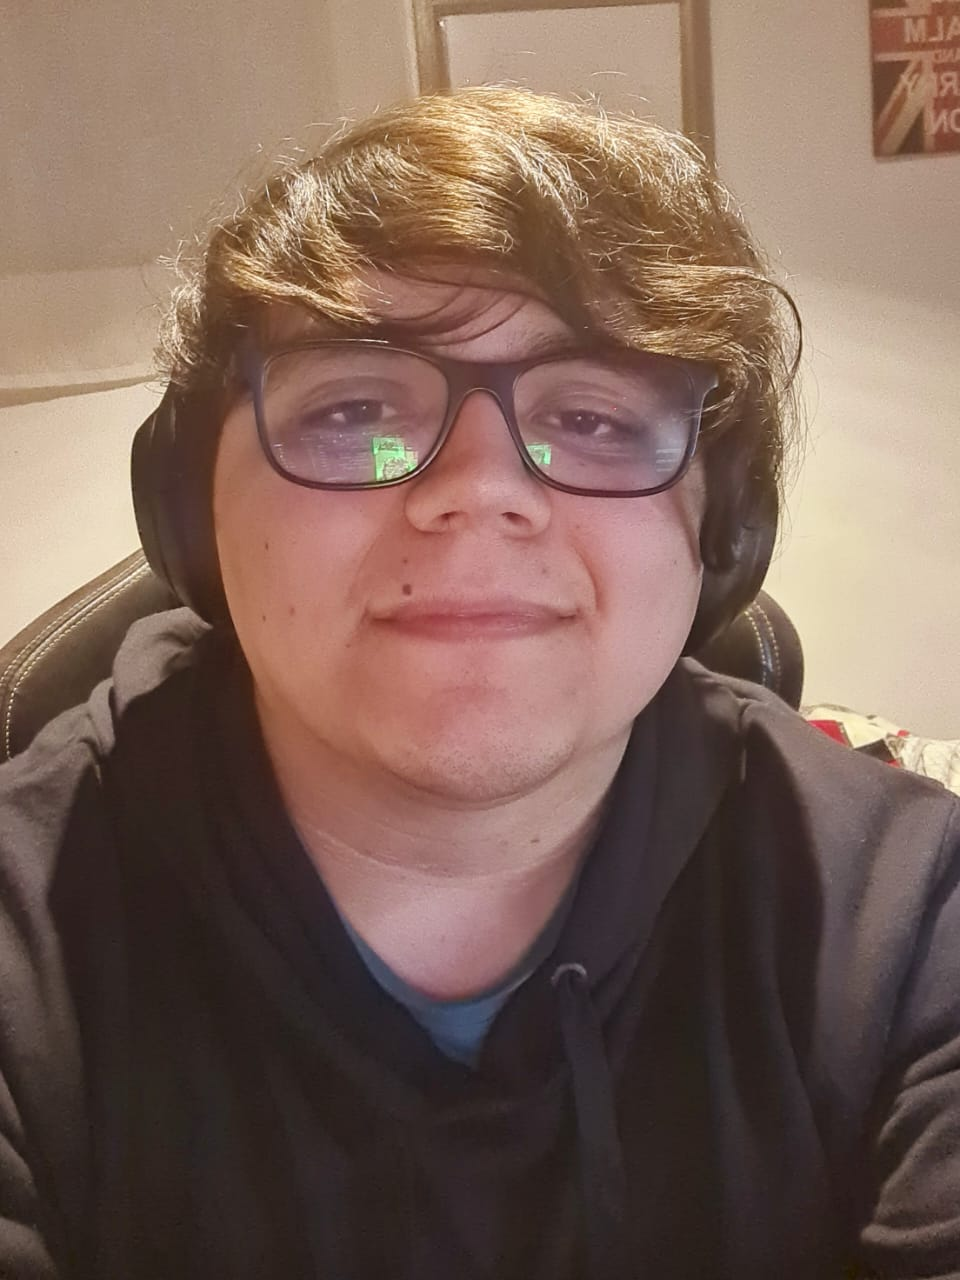
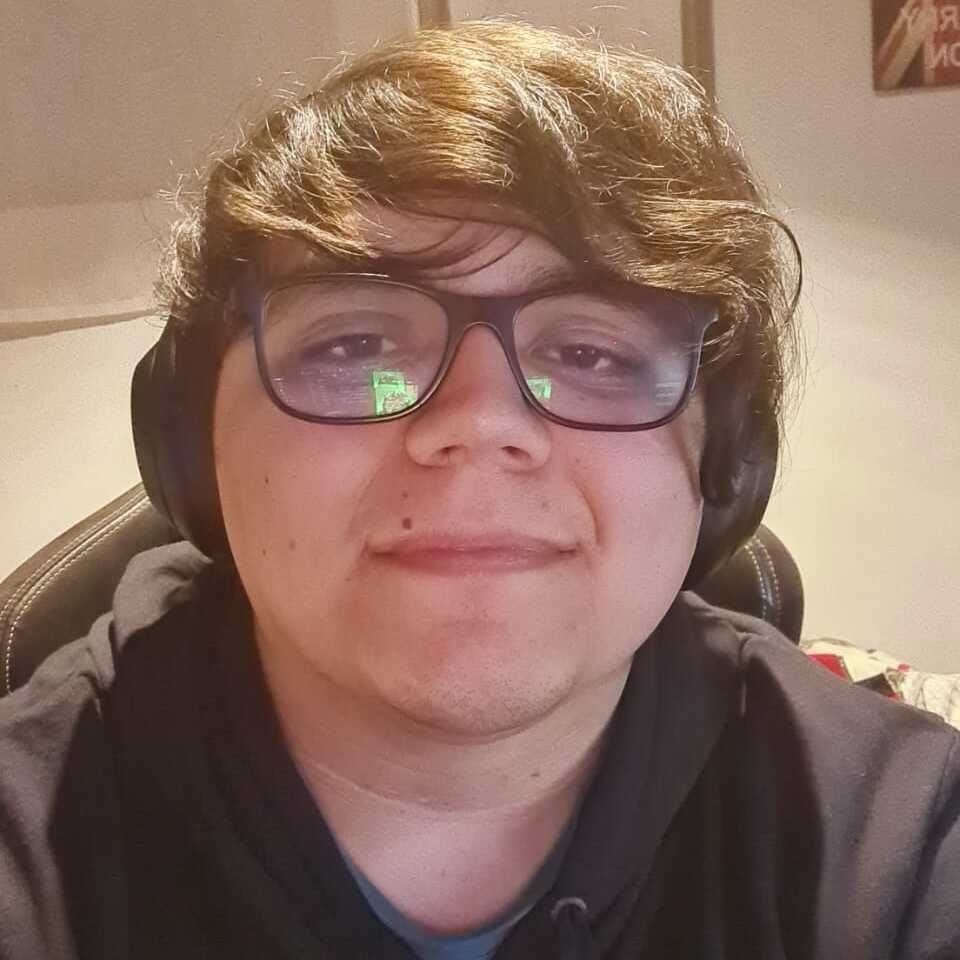
Fix detalles y limpieza de codigo

diff --git a/src/components/Proyectos.jsx b/src/components/Proyectos.jsx
@@ -1,44 +1,25 @@
 import React from 'react'
 import { HStack, Heading, WrapItem, Wrap } from '@chakra-ui/react'
-import portafolio from '../static/portafolio.png'
 import CardProyectos from './Cards/CardProyectos'
+import { proyectos } from '../static/proyectos'
 
 const Proyectos = () => {
+
+    const listadoProyectos = proyectos.map((proyecto, index) => {
+        return (
+            <WrapItem key={index}>
+                <CardProyectos imagen={proyecto.imagen} nombre={proyecto.titulo} descripcion={proyecto.descripcion} link={proyecto.url} tecnologias={proyecto.tecnologias} />
+            </WrapItem>
+        )
+    })
+
+
     return (
         <>
             <Heading as={"h2"} fontWeight={"bold"} color="white" textAlign={"center"} p={5} fontSize={"2xl"} id="Proyectos">Proyectos</Heading>
             <HStack w={'full'} h={"full"} mt={5} justify={"center"}>
                 <Wrap spacing={10} justify={"center"}>
-                    <WrapItem>
-                        <CardProyectos
-                            imagen={portafolio}
-                            descripcion={"Descripción del proyecto llamado portafolio y porque fue realizado asdasdasdasds dasdasdasda sdsdasdasda sdasdsdasdasdasdasdsd"}
-                            titulo={"Portafolio"}
-                            tecnologias={["React", "ChakraUI", "JavaScript", "Git", "GitHub", "Visual Studio Code"]}
-                            repositorio={"https://github.com/Xhyus/portfolio"}
-                            url={"https://www.ignaciogonzalez.dev"}
-                        />
-                    </WrapItem>
-                    <WrapItem>
-                        <CardProyectos
-                            imagen={portafolio}
-                            descripcion={"Descripción del proyecto llamado portafolio y porque fue realizado asdasdasdasds dasdasdasda sdsdasdasda sdasdsdasdasdasdasdsd"}
-                            titulo={"Portafolio"}
-                            tecnologias={["React", "ChakraUI", "JavaScript", "Git", "GitHub", "Visual Studio Code"]}
-                            repositorio={"https://github.com/Xhyus/portfolio"}
-                            url={"https://www.ignaciogonzalez.dev"}
-                        />
-                    </WrapItem>
-                    <WrapItem>
-                        <CardProyectos
-                            imagen={portafolio}
-                            descripcion={"Descripción del proyecto llamado portafolio y porque fue realizado asdasdasdasds dasdasdasda sdsdasdasda sdasdsdasdasdasdasdsd"}
-                            titulo={"Portafolio"}
-                            tecnologias={["React", "ChakraUI", "JavaScript", "Git", "GitHub", "Visual Studio Code"]}
-                            repositorio={"https://github.com/Xhyus/portfolio"}
-                            url={"https://www.ignaciogonzalez.dev"}
-                        />
-                    </WrapItem>
+                    {listadoProyectos}
                 </Wrap>
             </HStack>
         </>

diff --git a/src/components/Navbar.jsx b/src/components/Navbar.jsx
@@ -1,5 +1,5 @@
 import React from 'react'
-import { Box, Link, HStack, Flex, VStack, Stack, Drawer, DrawerOverlay, DrawerContent, Text, DrawerCloseButton, useMediaQuery, useDisclosure, DrawerHeader, DrawerBody } from "@chakra-ui/react"
+import { Box, Link, HStack, Flex, Stack, Drawer, DrawerOverlay, DrawerContent, Text, DrawerCloseButton, useMediaQuery, useDisclosure, DrawerHeader, DrawerBody } from "@chakra-ui/react"
 import { FaBars } from 'react-icons/fa'
 
 const Navbar = () => {
@@ -15,7 +15,7 @@ const Navbar = () => {
                         <Link color={"white"} px={1} fontWeight={"bold"} href={"#Sobre-mi"} >Sobre mí</Link>
                         <Link color={"white"} px={1} fontWeight={"bold"} href={"#Educacion"} >Educación</Link>
                         <Link color={"white"} px={1} fontWeight={"bold"} href={"#Experiencias"} >Experiencias</Link>
-                        <Link color={"white"} px={1} fontWeight={"bold"} href={"#Tecnologias"}  >Tecnologias</Link>
+                        <Link color={"white"} px={1} fontWeight={"bold"} href={"#Tecnologias"}  >Tecnologías</Link>
                         <Link color={"white"} px={1} fontWeight={"bold"} href={"#Proyectos"}  >Proyectos</Link>
                         <Link color={"white"} px={1} fontWeight={"bold"} href={"#Contacto"}  >Contacto</Link>
                     </HStack>
@@ -27,14 +27,13 @@ const Navbar = () => {
 
     const DrawerMobile = () => {
         const { isOpen, onOpen, onClose } = useDisclosure()
-        const btnRef = React.useRef()
         return (
             <>
                 <Box backgroundColor={"blackAlpha.900"} p={1}>
                     <Box m={5}>
-                        <FaBars color='white' size={30} ref={btnRef} onClick={onOpen} />
+                        <FaBars color='white' size={30} onClick={onOpen} />
                     </Box>
-                    <Drawer isOpen={isOpen} placement='right' onClose={onClose} finalFocusRef={btnRef}>
+                    <Drawer isOpen={isOpen} placement='right' onClose={onClose} >
                         <DrawerOverlay />
                         <DrawerContent backgroundColor={"blackAlpha.800"}>
                             <DrawerCloseButton color={"white"} />
@@ -48,7 +47,7 @@ const Navbar = () => {
                                     <Link color={"white"} px={1} fontWeight={"bold"} href={"#Experiencias"} >Experiencias</Link>
                                     <Link color={"white"} px={1} fontWeight={"bold"} href={"#Tecnologias"}  >Tecnologias</Link>
                                     <Link color={"white"} px={1} fontWeight={"bold"} href={"#Proyectos"}  >Proyectos</Link>
-                                    <Link color={"white"} px={1} fontWeight={"bold"} href={"#Contacto"}  >Contacto</Link>
+                                    {/* <Link color={"white"} px={1} fontWeight={"bold"} href={"#Contacto"}  >Contacto</Link> */}
                                 </Stack>
                             </DrawerBody>
                         </DrawerContent>

diff --git a/src/components/Educacion.jsx b/src/components/Educacion.jsx
@@ -8,10 +8,10 @@ const Educacion = () => {
             <Heading as={"h2"} color={"white"} p={5} fontSize={"2xl"}>Educación</Heading>
             <Wrap spacing={10} justify={"center"}>
                 <WrapItem>
-                    <CardEducacion logo={'https://www.salesianoconcepcion.cl/images/2018/06/07/insignia-colegio-fondo-transparente.png'} institucion={'Colegio Salesiano Concepción'} descripcion={'Técnico en Electrónica'} ingreso="2015" egreso="2018" />
+                    <CardEducacion logo={'https://www.salesianoconcepcion.cl/images/2018/06/07/insignia-colegio-fondo-transparente.png'} institucion={'Colegio Salesiano Concepción'} descripcion={'Técnico en Electrónica'} ingreso="2015" egreso="2018" size={"20%"} />
                 </WrapItem>
                 <WrapItem>
-                    <CardEducacion logo={'https://upload.wikimedia.org/wikipedia/commons/a/a2/Escudo_Universidad_del_B%C3%ADo-B%C3%ADo.png'} institucion={'Universidad del Bío-Bío'} descripcion={'Ingeniería en Ejecución Informática'} ingreso="2019" egreso="-" />
+                    <CardEducacion logo={'https://upload.wikimedia.org/wikipedia/commons/a/a2/Escudo_Universidad_del_B%C3%ADo-B%C3%ADo.png'} institucion={'Universidad del Bío-Bío'} descripcion={'Ingeniería en Ejecución Informática'} ingreso="2019" egreso="-" size={"30%"} />
                 </WrapItem>
             </Wrap>
         </VStack>

diff --git a/src/components/Contacto.jsx b/src/components/Contacto.jsx
@@ -1,0 +1,30 @@
+import React from 'react'
+import { Button, FormControl, FormLabel, Heading, HStack, Image, Input, Link, Stack, Text, Textarea } from '@chakra-ui/react'
+
+const Contacto = () => {
+    return (
+        <Stack w={"full"} mt={10} justify="center">
+            <Stack justify={"center"} bgColor={"white"} borderRadius={10} w={{ base: "full", md: "lg" }} p={5}>
+                <Heading as={"h2"} fontSize={"2xl"} textAlign={'center'} color={"black"} pb="5">Contacto</Heading>
+                <form onSubmit={(e) => e.preventDefault()}>
+                    <FormControl>
+                        <FormLabel >Nombre</FormLabel>
+                        <Input type="text" id="name" name="name" />
+                    </FormControl>
+                    <FormControl>
+                        <FormLabel>Email</FormLabel>
+                        <Input type="email" id="email" name="email" />
+                    </FormControl>
+                    <FormControl>
+                        <FormLabel >Mensaje</FormLabel>
+                        <Textarea id="message" name="message" />
+                    </FormControl>
+                    <Button mt={5} type="submit">Enviar</Button>
+                </form>
+
+            </Stack>
+        </Stack>
+    )
+}
+
+export default Contacto

diff --git a/src/components/Cards/CardEducacion.jsx b/src/components/Cards/CardEducacion.jsx
@@ -1,16 +1,16 @@
 import React from 'react'
-import { Text, HStack, VStack, Image, Heading } from '@chakra-ui/react'
+import { Text, HStack, VStack, Image } from '@chakra-ui/react'
 
-const CardEducacion = ({ logo, institucion, descripcion, ingreso, egreso }) => {
+const CardEducacion = ({ logo, institucion, descripcion, ingreso, egreso, size }) => {
     return (
-        <HStack border={'1px'} w={{ base: "full", md: "md" }} h={"full"} justify={"space-around"} borderRadius={20} p={5} bgColor={"white"}>
+        <HStack border={'1px'} w={{ base: "full", md: "md" }} h={"full"} justify={"space-around"} borderRadius={20} p={5} bgColor={"white"} flexDir={{ base: "column-reverse", md: "row" }}>
             <VStack pr={5}>
-                <Text fontWeight={"bold"}>{institucion}</Text>
+                <Text fontWeight={"bold"} fontSize="xl">{institucion}</Text>
                 <Text >{descripcion}</Text>
                 <Text>Año de Ingreso: {ingreso}</Text>
                 <Text>Año de Egreso: {egreso}</Text>
             </VStack>
-            <Image src={logo} w={100} alt="Logo" />
+            <Image src={logo} w={size} alt="Logo" />
         </HStack >
     )
 }

diff --git a/src/components/Empresas.jsx b/src/components/Empresas.jsx
@@ -6,16 +6,16 @@ import CardEmpresas from './Cards/CardEmpresas'
 const Empresas = () => {
     const experienciasDestacables = experiencias[0].experienciasDestacables.map((experiencia, index) => {
         return (
-            <WrapItem>
-                <CardEmpresas key={index} logo={experiencia.logo} empresa={experiencia.empresa} descripcion={experiencia.descripcion} />
+            <WrapItem key={index}>
+                <CardEmpresas logo={experiencia.logo} empresa={experiencia.empresa} descripcion={experiencia.descripcion} size={experiencia.size} periodo={experiencia.periodo} />
             </WrapItem>
         )
     })
 
     const trabajosFormales = experiencias[1].trabajosFormales.map((experiencia, index) => {
         return (
-            <WrapItem>
-                <CardEmpresas key={index} logo={experiencia.logo} empresa={experiencia.empresa} descripcion={experiencia.descripcion} />
+            <WrapItem key={index}>
+                <CardEmpresas logo={experiencia.logo} empresa={experiencia.empresa} descripcion={experiencia.descripcion} size={experiencia.size} periodo={experiencia.periodo} />
             </WrapItem>
         )
     })

diff --git a/src/components/SobreMi.jsx b/src/components/SobreMi.jsx
@@ -1,13 +1,13 @@
 import React from 'react'
-import { Box, Flex, Heading, HStack, Image, Link, Stack, Text } from '@chakra-ui/react'
-import foto from '../static/image.jpeg'
+import { Heading, HStack, Image, Link, Stack, Text } from '@chakra-ui/react'
+import foto from '../static/yo.jpeg'
 import { FaLinkedin, FaGithub } from 'react-icons/fa'
 
 
 const SobreMi = () => {
     return (
         <Stack w={"full"}>
-            <Heading as={"h1"} id="Sobre-Mi" fontSize={{ base: "4xl", md: "5xl" }} color={"white"} textAlign="center" pb={10}>Ignacio González</Heading>
+            <Heading as={"h1"} id="Sobre-mi" fontSize={{ base: "4xl", md: "5xl" }} color={"white"} textAlign="center" pb={10}>Ignacio González</Heading>
             <HStack flexWrap={{ base: "wrap", md: "nowrap" }}>
                 <Stack textAlign={"center"} mr={{ base: "0", md: 10 }} w={{ base: "full", md: "40%" }} pb={{ base: "5", md: 0 }} >
                     <Image src={foto} width={{ base: "70%", md: "70%" }} alignSelf="center" borderRadius={'full'} border={'2px'} borderColor={'gray.300'} alt="Foto de Ignacio González" />

diff --git a/src/components/Cards/CardEmpresas.jsx b/src/components/Cards/CardEmpresas.jsx
@@ -1,11 +1,12 @@
 import React from 'react'
-import { Text, HStack, VStack, Image, Heading } from '@chakra-ui/react'
+import { Text, VStack, Image } from '@chakra-ui/react'
 
-const CardEmpresas = ({ logo, empresa, descripcion }) => {
+const CardEmpresas = ({ logo, empresa, descripcion, periodo, size }) => {
     return (
         <VStack justify="center" border={'1px'} w={{ base: "full", md: "md" }} h={"full"} borderRadius={20} p={5} bgColor={"white"}>
-            <Image src={logo} w={"50%"} alt={`Logo ${empresa}`} />
+            <Image src={logo} w={size} alt={`Logo ${empresa}`} />
             <Text textAlign={"center"}>{descripcion}</Text>
+            <Text fontWeight={"semibold"}>{periodo}</Text>
         </VStack>
     )
 }

diff --git a/src/components/Cards/CardProyectos.jsx b/src/components/Cards/CardProyectos.jsx
@@ -22,7 +22,7 @@ const CardProyectos = ({ imagen, descripcion, titulo, tecnologias, repositorio, 
                 </Wrap>
                 <HStack p={5}>
                     <Link mr={5} href={repositorio} isExternal><FaGithub size={40} /></Link>
-                    <Link href={url} bgColor={"green.500"} color={"white"} p={2} borderRadius={10} fontWeight={'semibold'} fontSize={"2xl"} isExternal>Ir a la demo</Link>
+                    <Link href={url} bgColor={"blue.500"} _hover={{ bgColor: "blue.600", color: "white" }} color={"white"} p={2} borderRadius={10} fontWeight={'semibold'} fontSize={"2xl"} isExternal>Ir a la demo</Link>
                 </HStack>
             </Stack>
         </>

diff --git a/src/static/proyectos.js b/src/static/proyectos.js
@@ -1,0 +1,19 @@
+import portafolio from '../static/portafolio.png'
+
+export const proyectos = [
+    {
+        "imagen": portafolio,
+        "descripcion": "Practica Profesional I desarrollando páginas web",
+        "titulo": "portafolio",
+        "tecnologias": [
+            "React",
+            "ChakraUI",
+            "JavaScript",
+            "Git",
+            "GitHub",
+            "Visual Studio Code"
+        ],
+        "repositorio": "https://github.com/Xhyus/portfolio",
+        "url": "https://www.ignaciogonzalez.dev"
+    }
+]

diff --git a/src/views/Inicio.jsx b/src/views/Inicio.jsx
@@ -6,6 +6,7 @@ import Educacion from '../components/Educacion'
 import SobreMi from '../components/SobreMi'
 import Proyectos from '../components/Proyectos'
 import Idiomas from '../components/Idiomas'
+import Contacto from '../components/Contacto'
 
 const Inicio = () => {
     return (
@@ -16,6 +17,7 @@ const Inicio = () => {
             <Idiomas />
             <Tecnologias />
             <Proyectos />
+            {/* <Contacto /> */}
         </Container >
     )
 }
